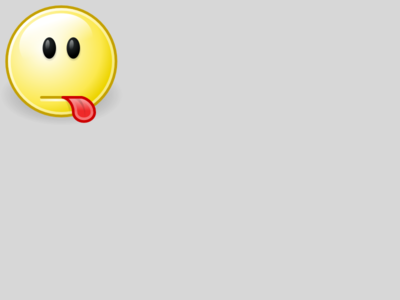
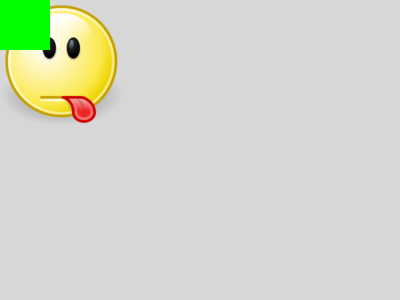
对绘图设备前50个像素点进行操作:修改成绿色

Changed region(s): [[0.0, 0.0, 0.15, 0.18]]

diff --git a/Src/14_41_QImage/widget.cpp b/Src/14_41_QImage/widget.cpp
@@ -15,6 +15,14 @@ Widget::Widget(QWidget *parent)
 	p.begin(&image);
 	//绘图
 	p.drawImage(0, 0, QImage(":/image/face.png"));
+	//对绘图设备前50个像素点进行操作:修改成绿色
+	for (int i = 0; i < 50; i++)
+	{
+		for (int j = 0; j < 50; j++)
+		{
+			image.setPixel(QPoint(i, j), qRgb(0, 255, 0));
+		}
+	}
 	p.end();
 	//绘图设备保存图片
 	image.save("./image/image.png");
